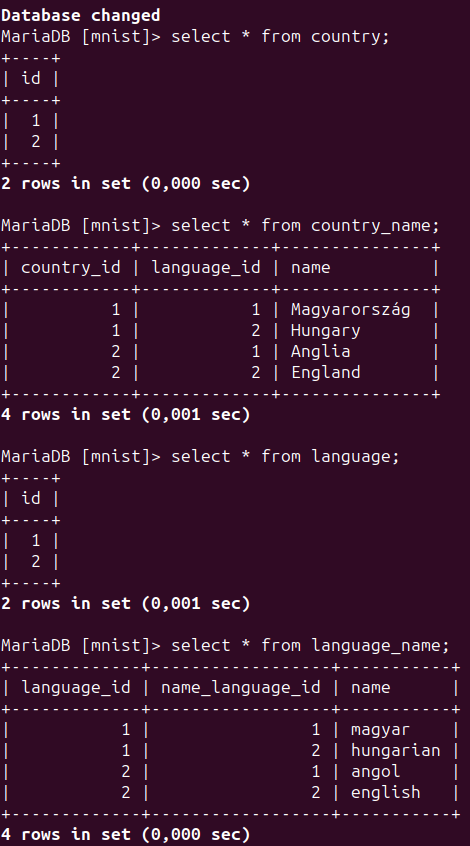
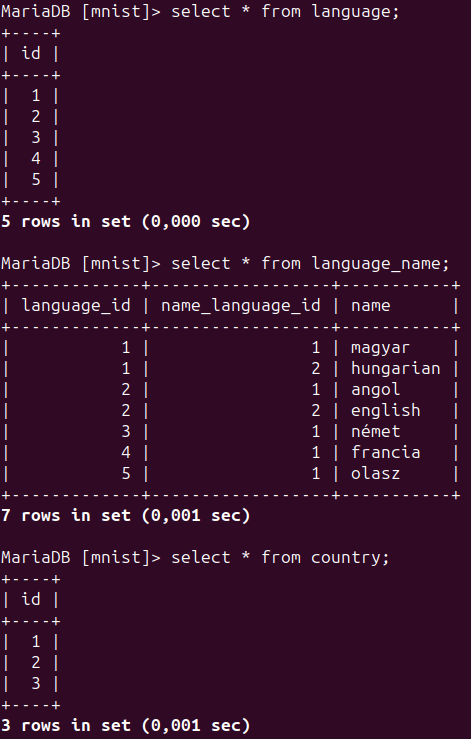
további tesztelés

diff --git a/specifikaciok/tesztek/tom-test.md b/specifikaciok/tesztek/tom-test.md
@@ -1,15 +1,32 @@
-| id  | type        | description                                                          | result  |
-|----:|------------:|:---------------------------------------------------------------------|:--------|
-| 1   | Adatbázis   | Magyar és angol nyelv hozzáadása az ismert nyelvekhez                | Success |
-| 2   | Adatbázis   | Magyarország és Anglia hozzáadása az ismert nyelveken az országokhoz | Success |
-| 3   | Adatbázis   | Ismert országok nevének lekérdezése a saját nyelvükön                | Success |
+| id  | type        | date       | description                                                                              | result  |
+|----:|------------:|------------|:-----------------------------------------------------------------------------------------|:--------|
+| 1   | Adatbázis   | 2023-10-11 | Magyar és angol nyelv hozzáadása az ismert nyelvekhez                                    | Success |
+| 2   | Adatbázis   | 2023-10-11 | Magyarország és Anglia hozzáadása az ismert nyelveken az országokhoz                     | Success |
+| 3   | Adatbázis   | 2023-10-11 | Ismert országok nevének lekérdezése a saját nyelvükön, használt nyelvük kiírása magyarul | Success |
+| 4   | Adatbázis   | 2023-10-11 | Svájc hozzáadása 3 hivatalos nyelvével (német, francia, olasz)                           | Success |
+| 5   | Adatbázis   | 2023-10-11 | Ellenőrzés, hogy nem okoz gondot, ha 1 nyelv nevét csak 1 nyelven tárolom                | Success |
+| 5   | Adatbázis   | 2023-10-11 | Ha a német nyelv megnevezés csak magyarul van tárolva, használhatok német szavakat       | Success |
+| 6   | Adatbázis   | 2023-10-11 | 3. teszt ismétlése a többnyelvű Svájccal is                                              | Success |
 
+## Egyszerűbb áttekinthetőségért csak a nehezebb lekérdezéseket írtam le, triviálisakat kevésbé.
 
-### Test 1-3
+(Pl.: Nem írom le, hogy hogyan szúrunk be a táblába egy sort, mert 1 perc google, és nem akarom, hogy 100 oldal legyen a dokumentum.)
+
+### Test 1-6
 
 ![](../kepek/teszt/tomi/1.png)
 
 ![](../kepek/teszt/tomi/2.png)
+
+(Bár Svájcban a rétoromán is hivatalos nyelv, háttérbe szorul, ezért nem vettem bele.
+Hozzáadtam a 3 hivatalos nyelvén is az ország adatait.)
+
+A nyelvek között most a németet, franciát és olaszt úgy tárolom el, hogy csak magyarul tárolom el a nevét, hogy mi az.
+(Ugye ID-k vannak csak, ezért nem sérül meg az adatbázis és konzisztens marad.)
+Így tudok német nyelvet használni úgy, hogy magát a nyelvet nem nevezem mondjuk Deutch-nak.
+
+Most, hogy letároltam 5 nyelven Svájcot, így a 3. tesztben most 3-szor kéne szerepelnie Svájcnak, mert mindhárom hivatalos nyelv.
+(A lekérdezés a 3. tesztben kimásolható.)
 
 ```sql
 select country_name.name, language_name.name
@@ -19,5 +36,20 @@ inner join language
 inner join language_name
 	on country_name.language_id = language.id and
 	language_name.language_id = language.id
-where language_name.language_id = language_name.name_language_id;
+inner join country
+	on country.id = country_name.country_id
+inner join country_language
+	on country_language.country_id = country.id and
+	country_language.language_id = language.id
+where
+	language_name.name_language_id =
+	(select id from language
+		inner join language_name
+			on language.id = language_name.language_id and
+			language_name.name_language_id = language.id
+		where
+			language_name.language_id = language_name.name_language_id and
+			language_name.name = "magyar");
 ```
+
+![](../kepek/teszt/tomi/3.png)
